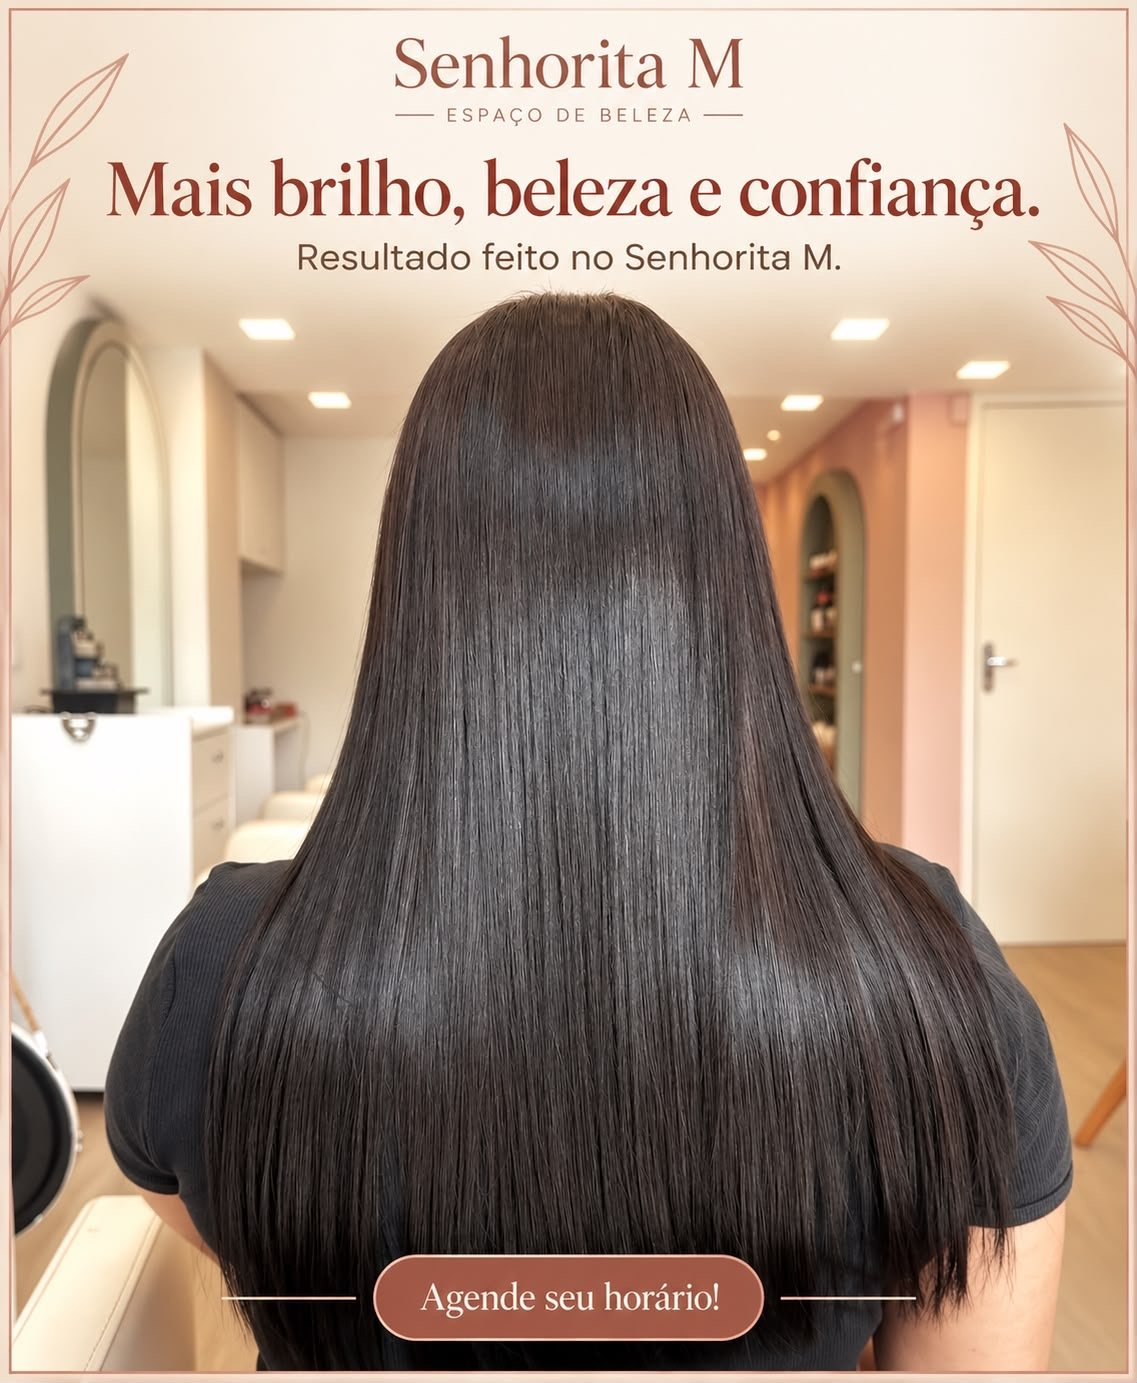
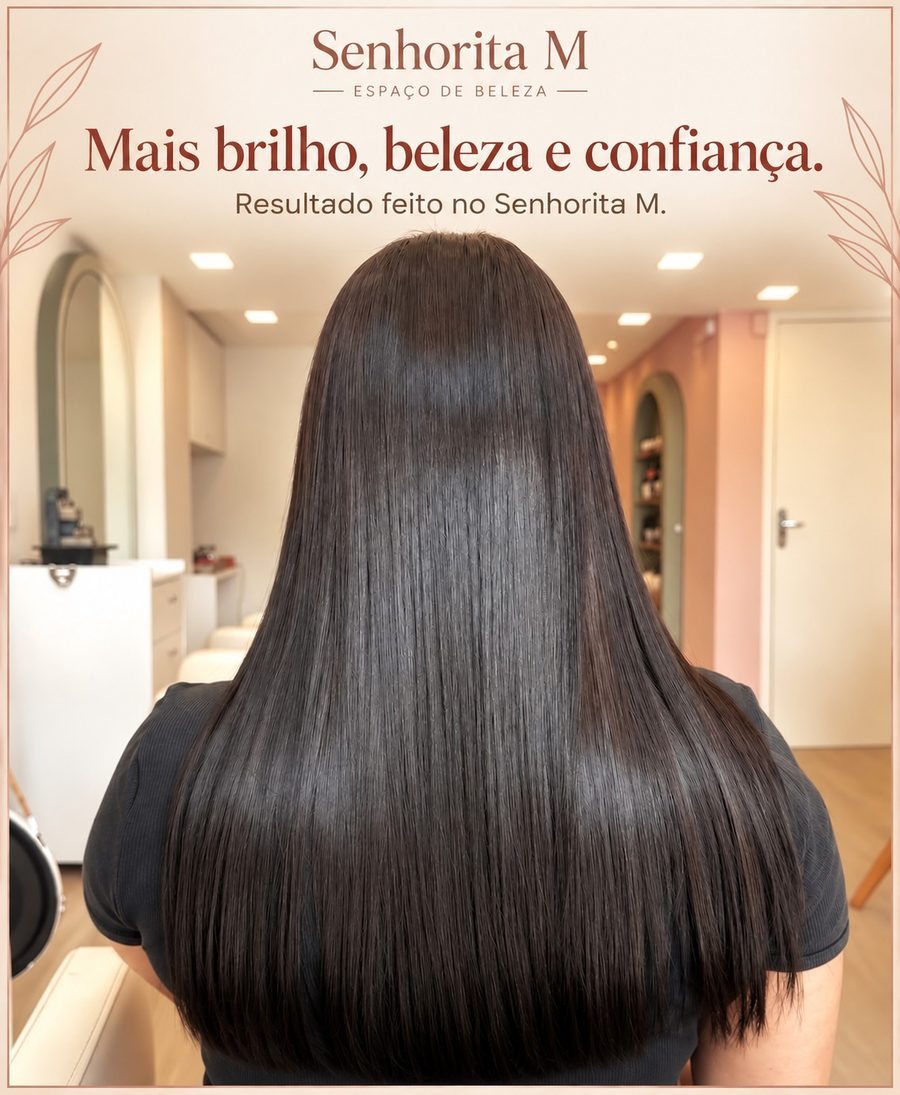
Remove image CTA and simplify service booking actions

diff --git a/frontend/src/pages/EsteticaPage.jsx b/frontend/src/pages/EsteticaPage.jsx
@@ -164,17 +164,6 @@ export default function EsteticaPage() {
                           {p.desc}
                         </p>
                         <p className="mt-3 text-xs italic text-[#B05B4B]">{p.benefit}</p>
-                        <a
-                          data-testid={`estetica-cta-${p.key}`}
-                          href={link}
-                          onClick={() => trackWhatsAppConversion("estetica", "procedure_card", p.key)}
-                          target="_blank"
-                          rel="noopener noreferrer"
-                          className="mt-5 inline-flex items-center justify-center gap-2 rounded-full border border-[#B05B4B]/45 px-5 py-3 text-xs font-semibold uppercase tracking-[0.12em] text-[#7F3B2E] transition-colors duration-300 hover:border-[#B05B4B] hover:bg-[#B05B4B] hover:text-white"
-                        >
-                          <WhatsAppIcon size={14} />
-                          Agendar pelo WhatsApp
-                        </a>
                       </div>
                     </article>
                   </Reveal>

diff --git a/frontend/src/components/Hero.jsx b/frontend/src/components/Hero.jsx
@@ -116,15 +116,7 @@ export const Hero = () => {
               decoding="async"
               data-testid="hero-main-image"
             />
-            <a
-              data-testid="hero-banner-cta-whatsapp"
-              href={WA_LINK}
-              onClick={() => trackWhatsAppConversion("home", "hero_banner")}
-              target="_blank"
-              rel="noopener noreferrer"
-              aria-label="Agende seu horário pelo WhatsApp"
-              className="absolute bottom-[1.5%] left-1/2 block h-[8.5%] w-[40%] -translate-x-1/2 cursor-pointer rounded-full transition-colors duration-300 hover:bg-white/10 focus-visible:outline focus-visible:outline-2 focus-visible:outline-[#B05B4B]"
-            />
+
           </motion.div>
         </div>
       </div>
